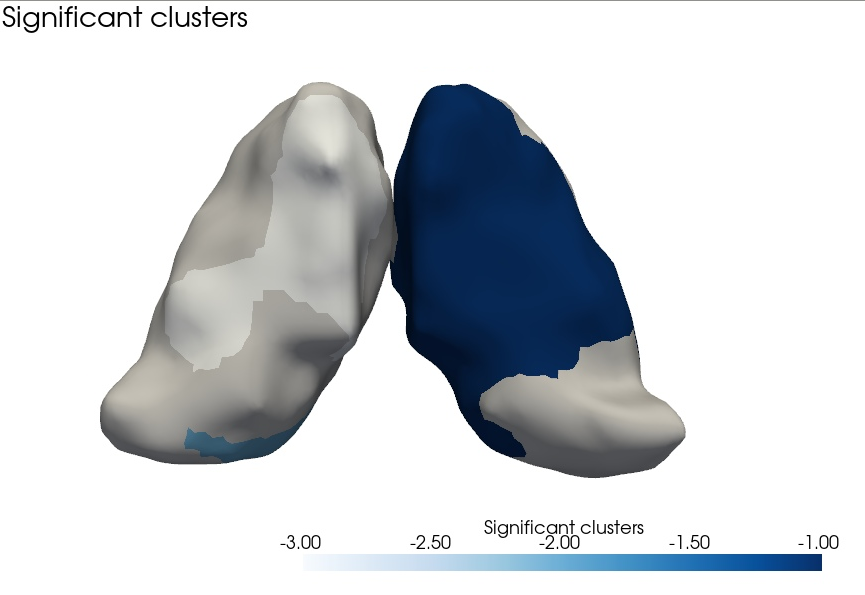
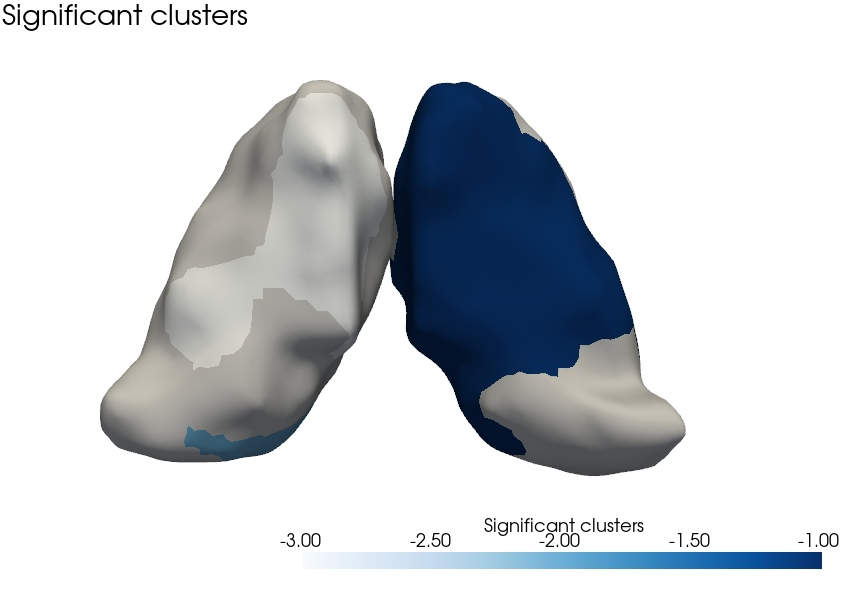
Figures fix Also proper outline for meshes in surf_qcplot

diff --git a/subcortexmesh/surf_qcplot.py b/subcortexmesh/surf_qcplot.py
@@ -66,8 +66,8 @@ def surf_qcplot(
         decimator = vtk.vtkQuadricDecimation()
         decimator.SetInputConnection(reader.GetOutputPort())
         #decimation stronger for bigger meshes
-        n_faces = reader.GetOutput().GetNumberOfCells()
-        reduction = 0.95 if n_faces > 10000 else 0.8
+        n_pts = reader.GetOutput().GetNumberOfPoints()
+        reduction = 0.95 if n_pts > 8000 else 0.9
         decimator.SetTargetReduction(reduction)
         #decimator.PreserveTopologyOn()
         decimator.Update()
@@ -156,8 +156,13 @@ def surf_qcplot(
             #rotate mesh if present inside volume slice
             if outline.n_points > 0:
                 meshcoords = rotate_points(meshcoords, current_rotation[axis], img.shape)
-                subplot.plot(meshcoords[:,0], meshcoords[:,1], '.', color=color, markersize=2)
-        
+                subplot.plot(meshcoords[:,0], meshcoords[:,1], ',', color=color, markersize=1)
+            lines = outline.lines.reshape(-1, 3)[:, 1:]  # strip cell count, get pairs of point indices
+            for i0, i1 in lines:
+                p0 = meshcoords[i0]
+                p1 = meshcoords[i1]
+                subplot.plot([p0[0], p1[0]], [p0[1], p1[1]], '-', color=color, linewidth=1)
+    
         subplot.set_title({'sag':"Sagittal",'ax':"Axial",'cor':"Coronal"}[axis])
         subplot.axis("off")
         
@@ -300,7 +305,7 @@ def surf_qcplot(
         legend_labels.append(os.path.splitext(fname)[0])
     
     fig.legend(legend_handles, legend_labels,
-            loc='center left', bbox_to_anchor=(0.79, 0.47),
+            loc='center left', bbox_to_anchor=(0.74, 0.47),
             ncol=1, fontsize='small')
     
     fig._widgets = [button_sag, slider_sag, button_ax, slider_ax, button_cor, slider_cor, button_mesh_prev, button_mesh_next]
